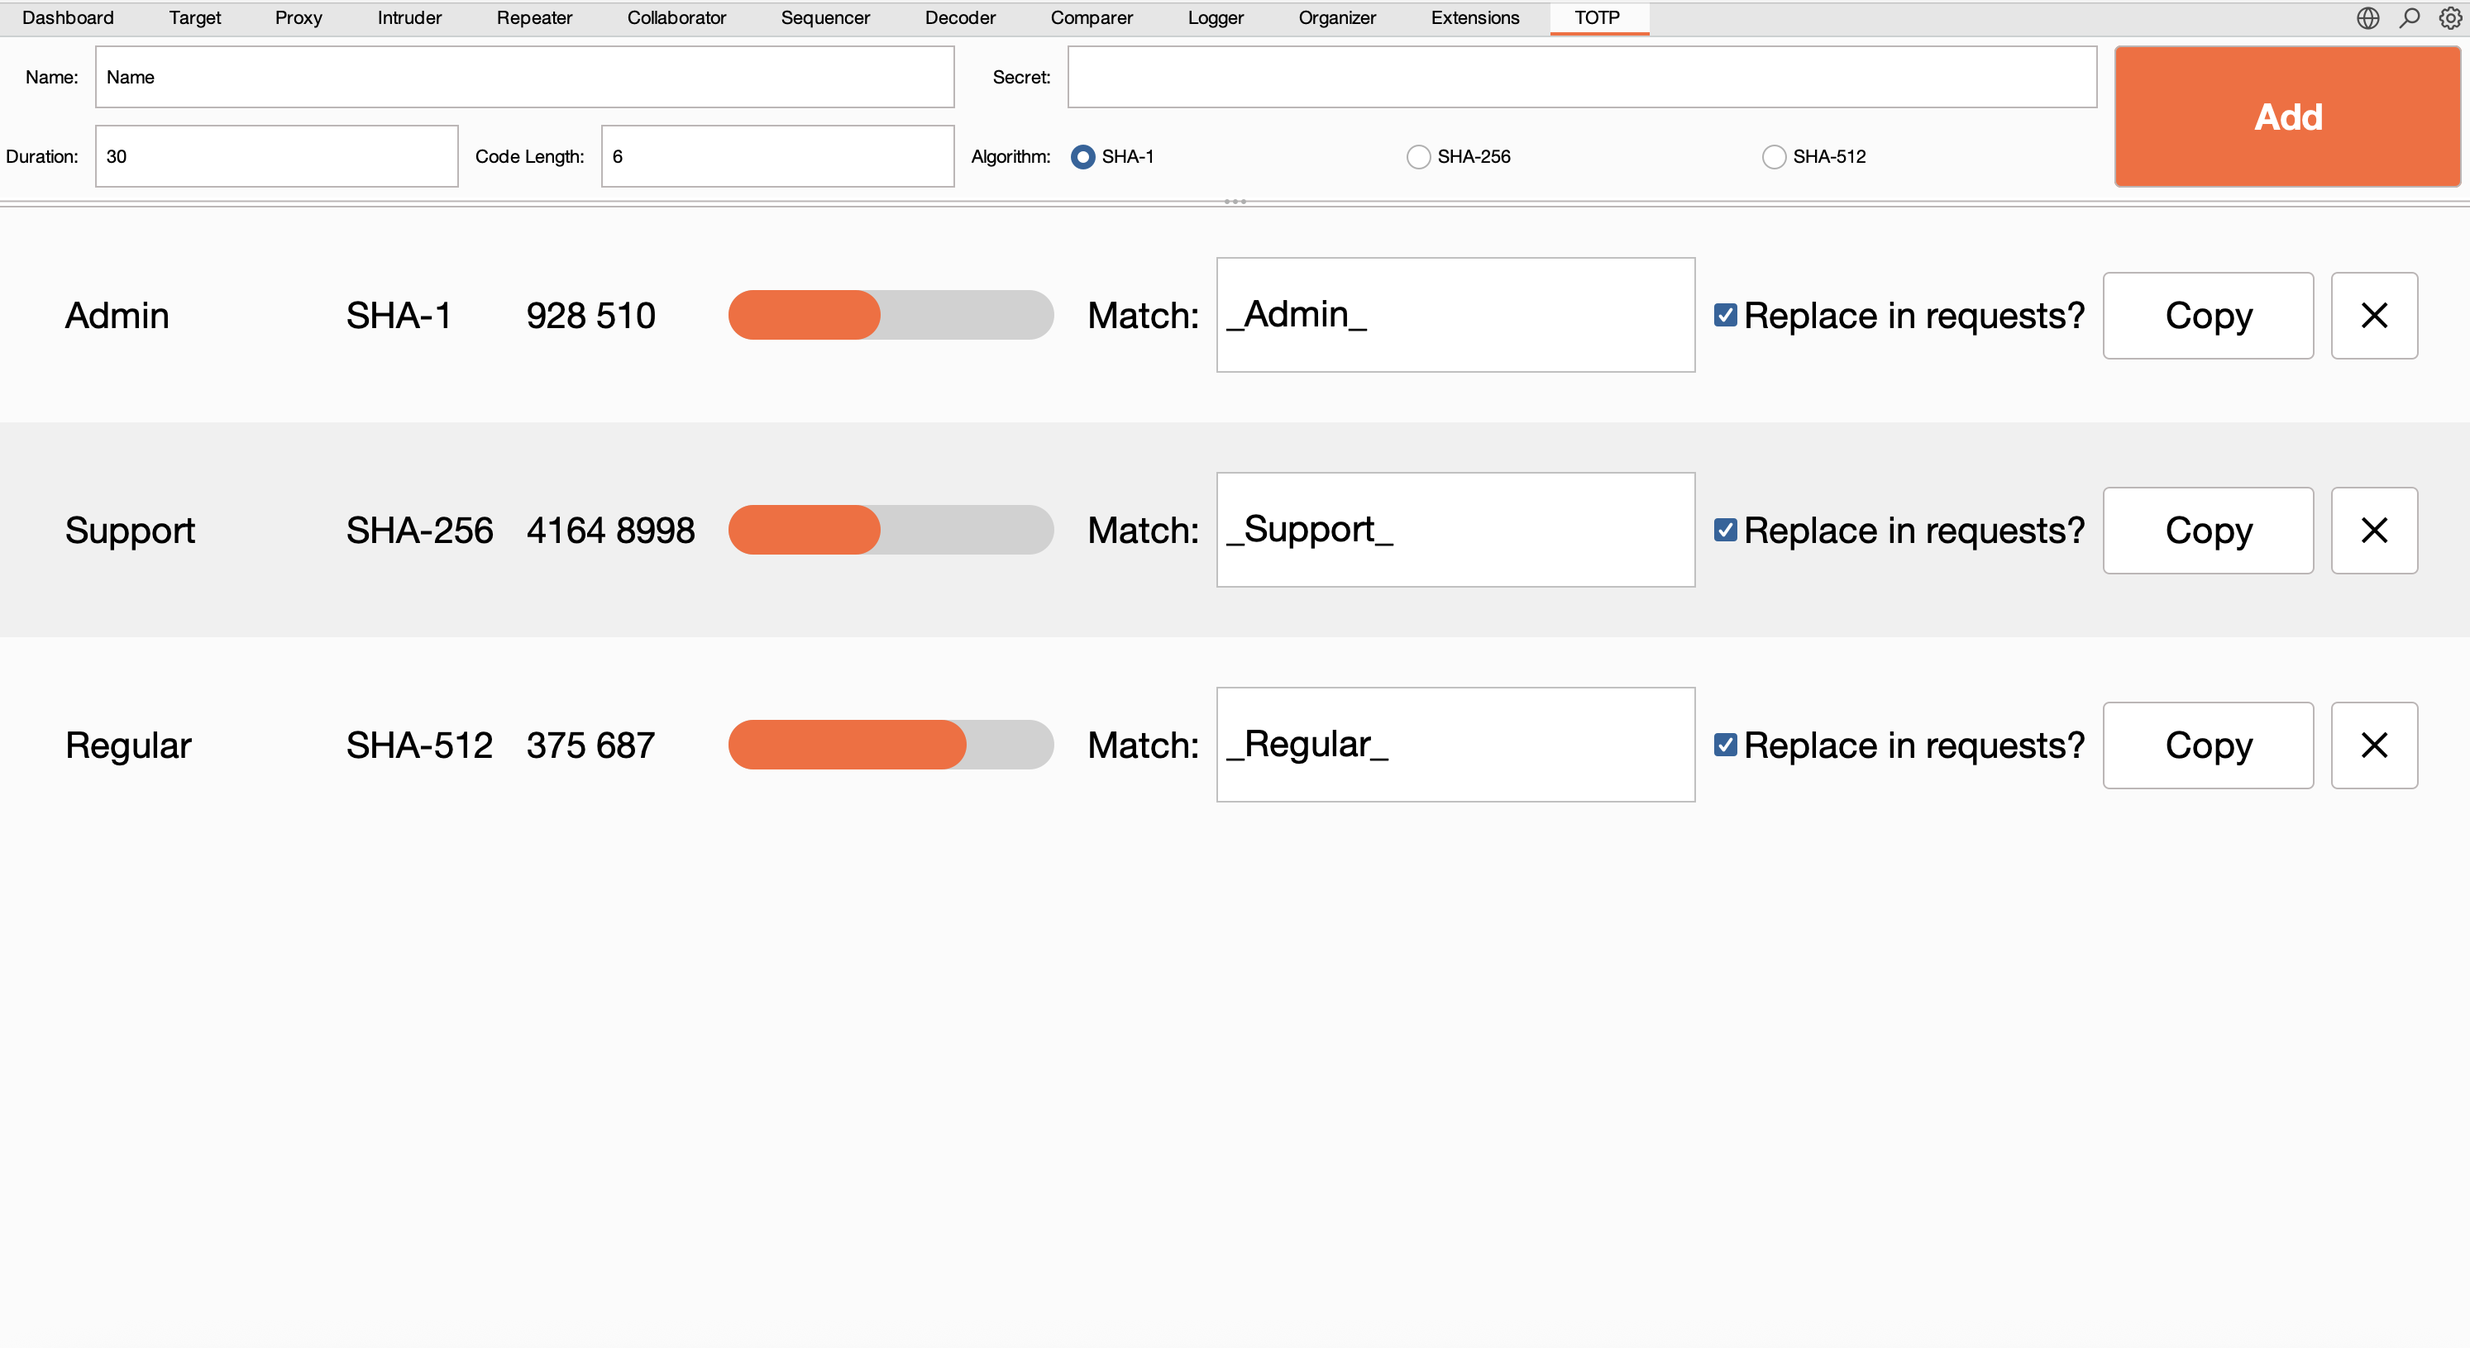
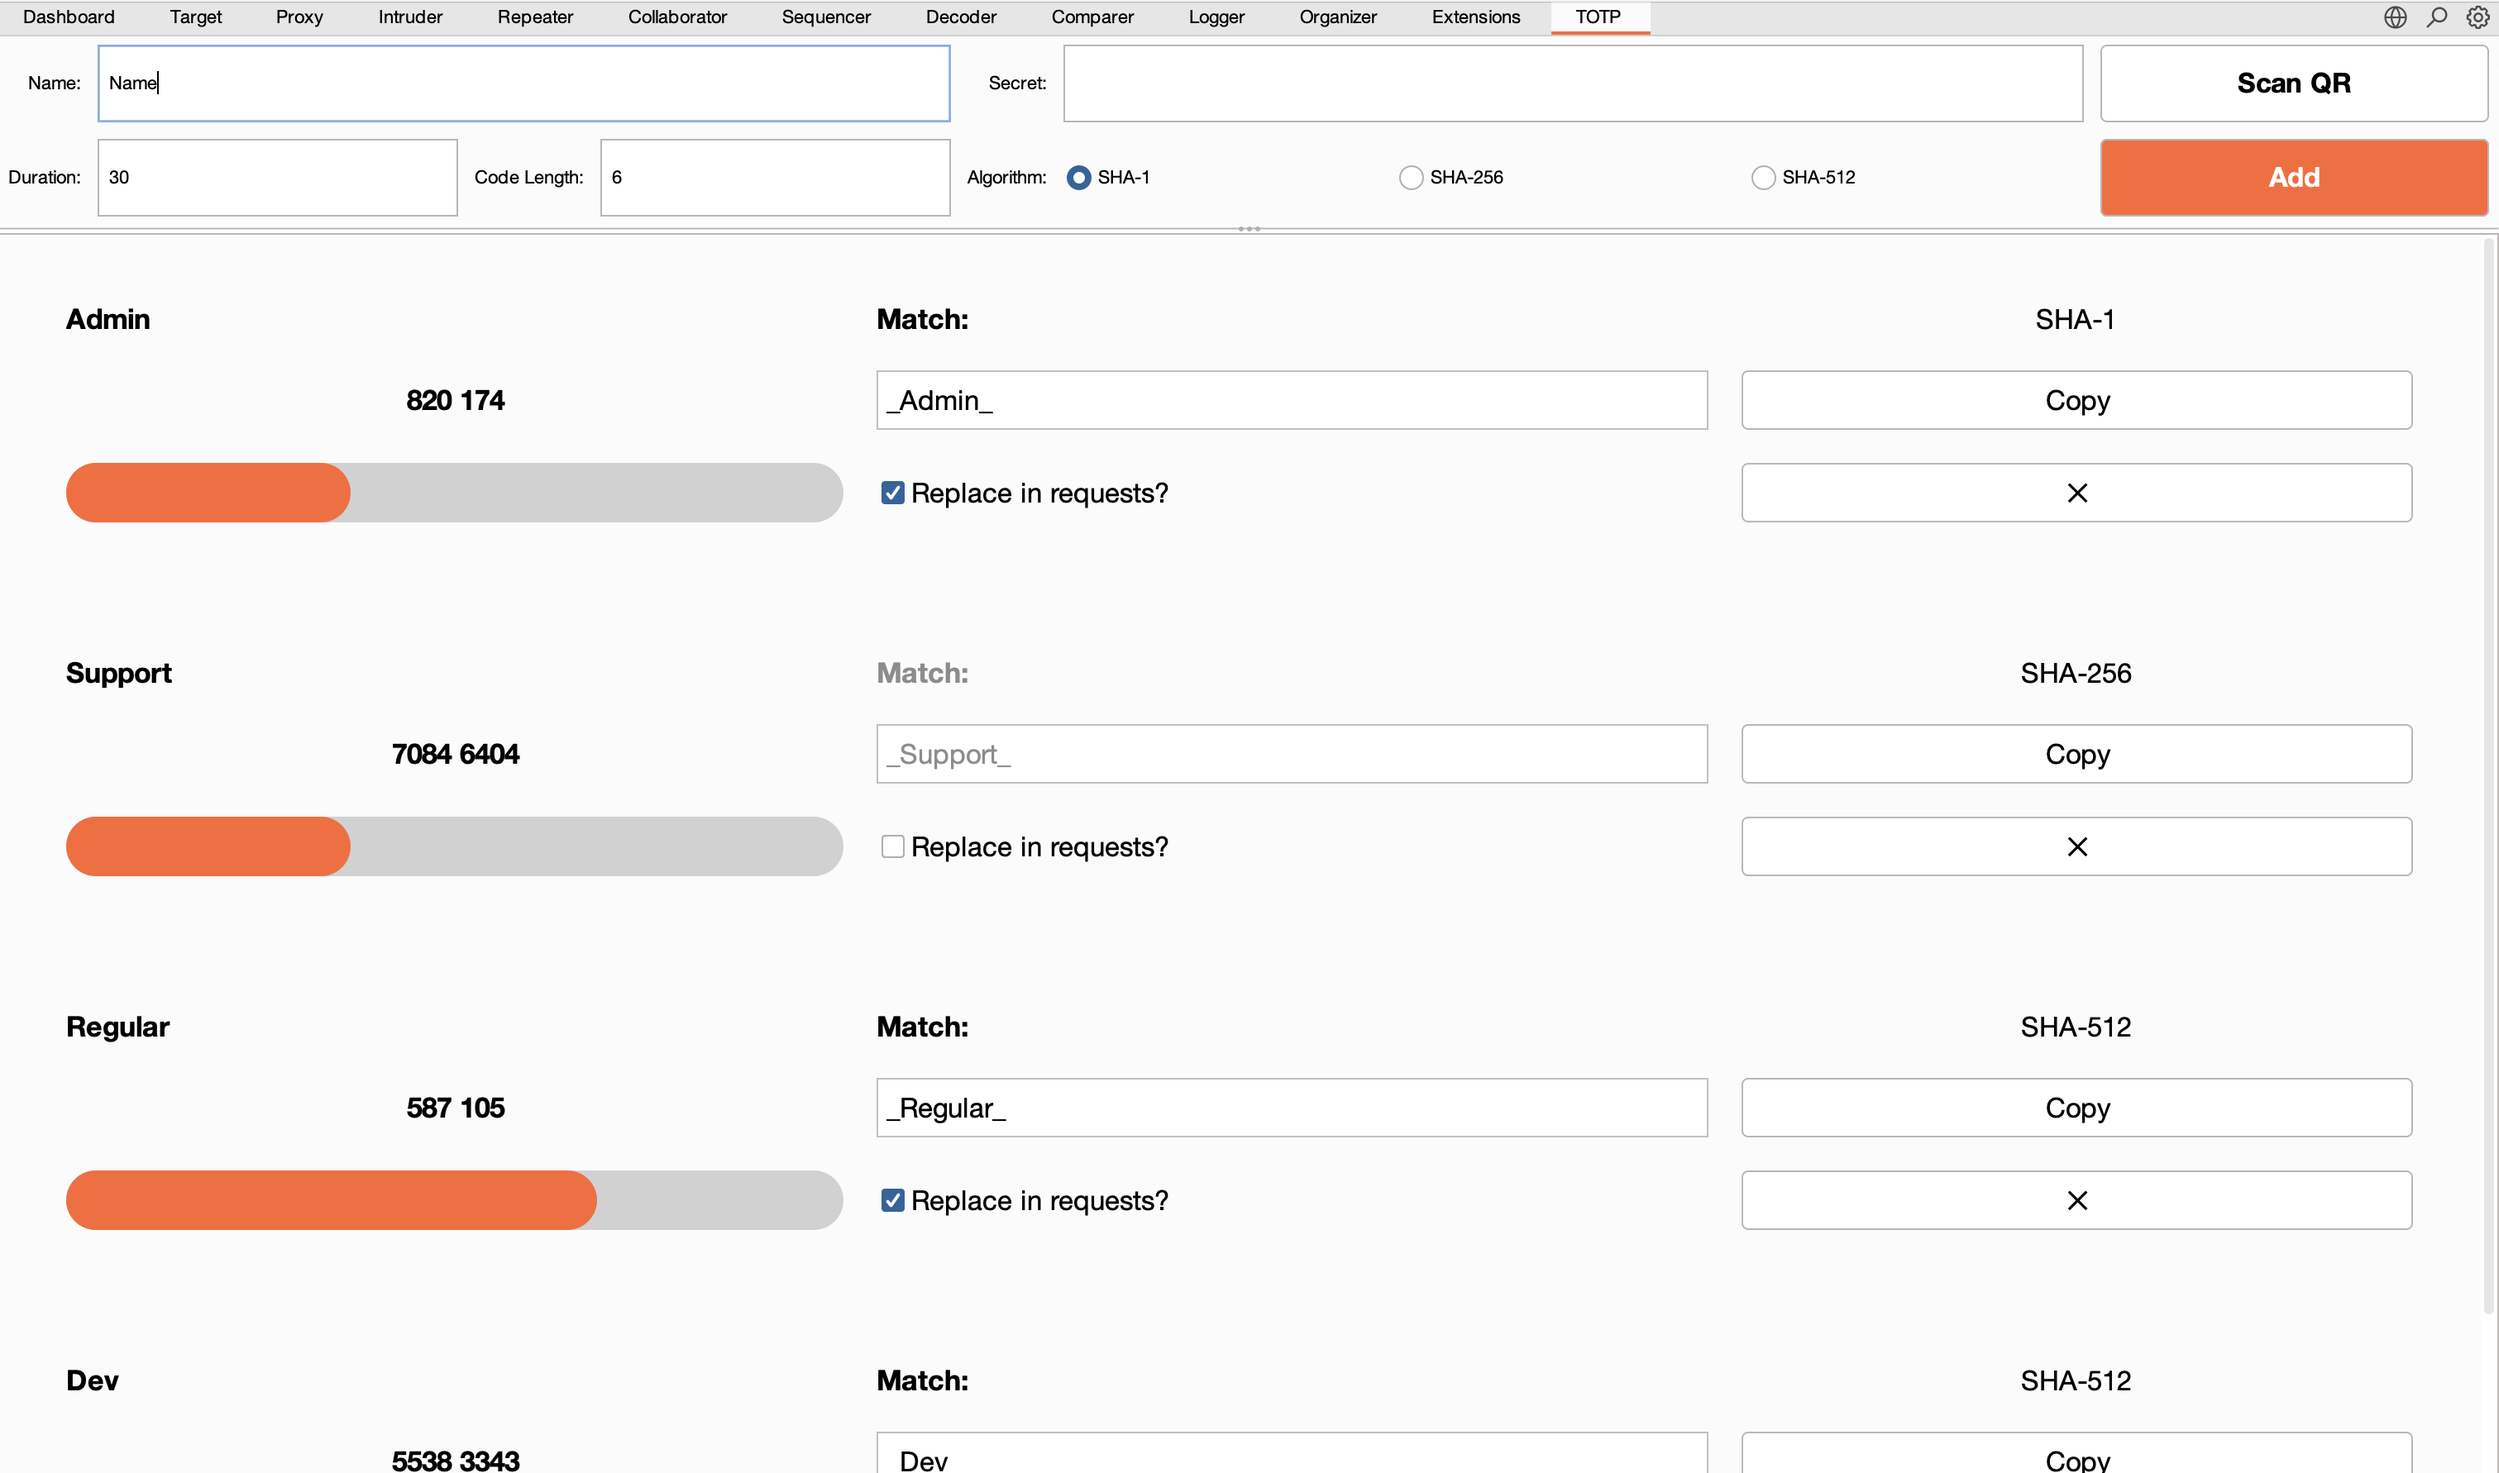
TOTP Table UI overhaul

diff --git a/src/main/java/com/stephensantilli/totp/ui/CodeItem.java b/src/main/java/com/stephensantilli/totp/ui/CodeItem.java
@@ -3,10 +3,9 @@ package com.stephensantilli.totp.ui;
 import static com.stephensantilli.totp.TOTP.api;
 
 import java.awt.Color;
-import java.awt.Component;
-import java.awt.Dimension;
 import java.awt.Font;
-import java.awt.FontMetrics;
+import java.awt.GridBagConstraints;
+import java.awt.GridBagLayout;
 import java.awt.Insets;
 import java.awt.Toolkit;
 import java.awt.datatransfer.Clipboard;
@@ -15,9 +14,8 @@ import java.awt.event.KeyEvent;
 import java.awt.event.KeyListener;
 import java.awt.event.MouseEvent;
 import java.awt.event.MouseListener;
+
 import javax.swing.BorderFactory;
-import javax.swing.Box;
-import javax.swing.BoxLayout;
 import javax.swing.JButton;
 import javax.swing.JCheckBox;
 import javax.swing.JLabel;
@@ -56,86 +54,134 @@ public class CodeItem extends JPanel implements KeyListener, MouseListener {
         this.code = code;
         this.listener = listener;
 
-        BoxLayout layout = new BoxLayout(this, BoxLayout.X_AXIS);
+        GridBagLayout layout = new GridBagLayout();
         setLayout(layout);
 
         Font font = api.userInterface().currentDisplayFont();
         font = font.deriveFont(font.getSize() * 1.5f);
 
-        FontMetrics metrics = getFontMetrics(font);
-
         int inset = 10;
-        Border defaultInsets = BorderFactory.createEmptyBorder(inset, inset, inset, inset);
+        Insets insets = new Insets(inset, inset, inset, inset);
 
         this.nameLbl = new JLabel(code.getName());
-        nameLbl.setFont(font);
+        nameLbl.setFont(font.deriveFont(Font.BOLD));
         nameLbl.addMouseListener(this);
-        nameLbl.setBorder(defaultInsets);
-        nameLbl.setPreferredSize(new Dimension(250, Integer.MAX_VALUE));
-        nameLbl.setMinimumSize(new Dimension(100, Integer.MAX_VALUE));
-        nameLbl.setMaximumSize(nameLbl.getPreferredSize());
         nameLbl.setToolTipText("Name: " + code.getName());
+
+        GridBagConstraints nameLblCons = new GridBagConstraints();
+        nameLblCons.gridx = 0;
+        nameLblCons.gridy = 0;
+        nameLblCons.weightx = .5;
+        nameLblCons.weighty = .5;
+        nameLblCons.gridheight = 1;
+        nameLblCons.gridwidth = 1;
+        nameLblCons.insets = insets;
+        nameLblCons.fill = GridBagConstraints.BOTH;
+        nameLblCons.anchor = GridBagConstraints.CENTER;
 
         this.algoLbl = new JLabel(getCryptoDisplay(code.getCrypto()));
         algoLbl.setFont(font);
         algoLbl.addMouseListener(this);
-        algoLbl.setBorder(defaultInsets);
-        algoLbl.setPreferredSize(new Dimension(metrics.stringWidth("SHA-512") + inset * 2, Integer.MAX_VALUE));
-        algoLbl.setMinimumSize(algoLbl.getPreferredSize());
-        algoLbl.setMaximumSize(algoLbl.getPreferredSize());
         algoLbl.setToolTipText("Hashing algorithm");
+        GridBagConstraints algoLblCons = new GridBagConstraints();
+        algoLblCons.gridx = 2;
+        algoLblCons.gridy = 0;
+        algoLblCons.weightx = .5;
+        algoLblCons.weighty = .5;
+        algoLblCons.gridheight = 1;
+        algoLblCons.gridwidth = 1;
+        algoLblCons.insets = insets;
+        algoLblCons.fill = GridBagConstraints.VERTICAL;
+        algoLblCons.anchor = GridBagConstraints.CENTER;
 
         this.codeLbl = new JLabel(getCodeDisplay(code.generateCode()));
-        codeLbl.setFont(font);
+        codeLbl.setFont(font.deriveFont(Font.BOLD));
         codeLbl.addMouseListener(this);
-        codeLbl.setBorder(defaultInsets);
-        codeLbl.setPreferredSize(new Dimension(metrics.stringWidth("000 000 000") + inset * 2, Integer.MAX_VALUE));
-        codeLbl.setMinimumSize(codeLbl.getPreferredSize());
-        codeLbl.setMaximumSize(codeLbl.getPreferredSize());
         codeLbl.setToolTipText(code.generateCode());
+        codeLbl.setHorizontalAlignment(JLabel.CENTER);
+
+        GridBagConstraints codeLblCons = new GridBagConstraints();
+        codeLblCons.gridx = 0;
+        codeLblCons.gridy = 1;
+        codeLblCons.weightx = .5;
+        codeLblCons.weighty = .5;
+        codeLblCons.gridheight = 1;
+        codeLblCons.gridwidth = 1;
+        codeLblCons.insets = insets;
+        codeLblCons.fill = GridBagConstraints.BOTH;
+        codeLblCons.anchor = GridBagConstraints.CENTER;
 
         this.progressBar = new JProgressBar(0, code.getDuration());
         progressBar.addMouseListener(this);
-        progressBar.setBorder(defaultInsets);
-        progressBar.setPreferredSize(new Dimension(350, 50));
-        progressBar.setMinimumSize(new Dimension(100, 50));
-        progressBar.setMaximumSize(progressBar.getPreferredSize());
+
+        GridBagConstraints progressBarCons = new GridBagConstraints();
+        progressBarCons.gridx = 0;
+        progressBarCons.gridy = 2;
+        progressBarCons.weightx = .5;
+        progressBarCons.weighty = .5;
+        progressBarCons.gridheight = 1;
+        progressBarCons.gridwidth = 1;
+        progressBarCons.insets = insets;
+        progressBarCons.fill = GridBagConstraints.BOTH;
+        progressBarCons.anchor = GridBagConstraints.CENTER;
 
         this.matchLbl = new JLabel("Match:");
-        matchLbl.setFont(font);
+        matchLbl.setFont(font.deriveFont(Font.BOLD));
         matchLbl.addMouseListener(this);
-        matchLbl.setBorder(defaultInsets);
-        matchLbl.setHorizontalTextPosition(JLabel.CENTER);
-
         matchLbl.setEnabled(code.isEnabled());
+
+        GridBagConstraints matchLblCons = new GridBagConstraints();
+        matchLblCons.gridx = 1;
+        matchLblCons.gridy = 0;
+        matchLblCons.weightx = .5;
+        matchLblCons.weighty = .5;
+        matchLblCons.gridheight = 1;
+        matchLblCons.gridwidth = 1;
+        matchLblCons.insets = insets;
+        matchLblCons.fill = GridBagConstraints.BOTH;
+        matchLblCons.anchor = GridBagConstraints.CENTER;
 
         this.matchField = new JTextField(code.getMatch());
         matchField.setFont(font);
         matchField.addMouseListener(this);
         matchField.addKeyListener(this);
-        matchField.setMargin(new Insets(5, 5, 5, 5));
-        matchField.setPreferredSize(new Dimension(450, Integer.MAX_VALUE));
-        matchField.setMinimumSize(new Dimension(100, Integer.MAX_VALUE));
-        matchField.setMaximumSize(matchField.getPreferredSize());
-
+        matchField.setColumns(10);
         matchField.setEnabled(code.isEnabled());
+
+        GridBagConstraints matchFieldCons = new GridBagConstraints();
+        matchFieldCons.gridx = 1;
+        matchFieldCons.gridy = 1;
+        matchFieldCons.weightx = .0;
+        matchFieldCons.weighty = .5;
+        matchFieldCons.gridheight = 1;
+        matchFieldCons.gridwidth = 1;
+        matchFieldCons.insets = insets;
+        matchFieldCons.fill = GridBagConstraints.BOTH;
+        matchFieldCons.anchor = GridBagConstraints.CENTER;
 
         boolean darkMode = api.userInterface().currentTheme() == Theme.DARK;
         Color normal = darkMode ? new Color(0, 0, 0, 0) : Color.LIGHT_GRAY;
-
         Border matchFieldLineBorder = BorderFactory.createLineBorder(normal, 1);
         Border matchFieldMarginBorder = BorderFactory.createEmptyBorder(5, 5, 5, 5);
-
         matchField.setBorder(new CompoundBorder(matchFieldLineBorder, matchFieldMarginBorder));
 
         this.enabledBox = new JCheckBox();
         enabledBox.setFont(font);
         enabledBox.addMouseListener(this);
-        enabledBox.setBorder(defaultInsets);
         enabledBox.setToolTipText("Enable replacing");
         enabledBox.setText("Replace in requests?");
-
         enabledBox.setSelected(code.isEnabled());
+
+        GridBagConstraints enabledBoxCons = new GridBagConstraints();
+        enabledBoxCons.gridx = 1;
+        enabledBoxCons.gridy = 2;
+        enabledBoxCons.weightx = .5;
+        enabledBoxCons.weighty = .5;
+        enabledBoxCons.gridheight = 1;
+        enabledBoxCons.gridwidth = 1;
+        enabledBoxCons.insets = insets;
+        enabledBoxCons.fill = GridBagConstraints.BOTH;
+        enabledBoxCons.anchor = GridBagConstraints.CENTER;
 
         enabledBox.addActionListener(l -> {
 
@@ -147,24 +193,23 @@ public class CodeItem extends JPanel implements KeyListener, MouseListener {
 
         });
 
-        this.removeBtn = new JButton("✕");
-        removeBtn.setFont(font);
-        removeBtn.addMouseListener(this);
-        removeBtn.setBorder(new CompoundBorder(removeBtn.getBorder(), defaultInsets));
-
-        removeBtn.addActionListener(l -> {
-
-            listener.removeCode(this);
-
-        });
-
         this.copyBtn = new JButton("Copy");
         copyBtn.setFont(font);
         copyBtn.addMouseListener(this);
-        copyBtn.setBorder(new CompoundBorder(copyBtn.getBorder(), defaultInsets));
-        copyBtn.setPreferredSize(new Dimension(metrics.stringWidth("Copy") + 75, Integer.MAX_VALUE));
-        copyBtn.setMinimumSize(copyBtn.getPreferredSize());
         copyBtn.setToolTipText("Copy TOTP to clipboard");
+
+        GridBagConstraints copyBtnCons = new GridBagConstraints();
+        copyBtnCons.gridx = 2;
+        copyBtnCons.gridy = 1;
+        copyBtnCons.weightx = .5;
+        copyBtnCons.weighty = .5;
+        copyBtnCons.gridheight = 1;
+        copyBtnCons.gridwidth = 1;
+        copyBtnCons.ipadx = 10;
+        copyBtnCons.ipady = 10;
+        copyBtnCons.insets = insets;
+        copyBtnCons.fill = GridBagConstraints.BOTH;
+        copyBtnCons.anchor = GridBagConstraints.CENTER;
 
         Timer delay = new Timer(200, m -> {
 
@@ -185,37 +230,41 @@ public class CodeItem extends JPanel implements KeyListener, MouseListener {
 
         });
 
+        this.removeBtn = new JButton("✕");
+        removeBtn.setFont(font);
+        removeBtn.addMouseListener(this);
+
+        GridBagConstraints removeBtnCons = new GridBagConstraints();
+        removeBtnCons.gridx = 2;
+        removeBtnCons.gridy = 2;
+        removeBtnCons.weightx = .5;
+        removeBtnCons.weighty = .5;
+        removeBtnCons.gridheight = 1;
+        removeBtnCons.gridwidth = 1;
+        removeBtnCons.insets = insets;
+        removeBtnCons.ipadx = 10;
+        removeBtnCons.ipady = 10;
+        removeBtnCons.fill = GridBagConstraints.BOTH;
+        removeBtnCons.anchor = GridBagConstraints.CENTER;
+
+        removeBtn.addActionListener(l -> {
+
+            listener.removeCode(this);
+
+        });
+
         addMouseListener(this);
         setBorder(BorderFactory.createEmptyBorder(30, 30, 30, 30));
 
-        this.add(nameLbl);
-        this.add(Box.createHorizontalGlue());
-        this.add(algoLbl);
-        this.add(Box.createHorizontalGlue());
-        this.add(codeLbl);
-        this.add(Box.createHorizontalGlue());
-        this.add(progressBar);
-        this.add(Box.createHorizontalGlue());
-        this.add(matchLbl);
-        this.add(Box.createHorizontalGlue());
-        this.add(matchField);
-        this.add(Box.createHorizontalGlue());
-        this.add(enabledBox);
-        this.add(Box.createHorizontalGlue());
-        this.add(copyBtn);
-        this.add(Box.createHorizontalGlue());
-        this.add(Box.createRigidArea(new Dimension(10, 0)));
-        this.add(removeBtn);
-
-        int prefWidth = 0;
-        for (Component comp : getComponents()) {
-            prefWidth += comp.getMinimumSize().getWidth();
-        }
-
-        setPreferredSize(new Dimension(prefWidth, 130));
-        setMaximumSize(new Dimension(Integer.MAX_VALUE, getPreferredSize().height));
-
-        setAlignmentX(Component.LEFT_ALIGNMENT);
+        this.add(nameLbl, nameLblCons);
+        this.add(algoLbl, algoLblCons);
+        this.add(codeLbl, codeLblCons);
+        this.add(progressBar, progressBarCons);
+        this.add(matchLbl, matchLblCons);
+        this.add(matchField, matchFieldCons);
+        this.add(enabledBox, enabledBoxCons);
+        this.add(copyBtn, copyBtnCons);
+        this.add(removeBtn, removeBtnCons);
 
     }
 
